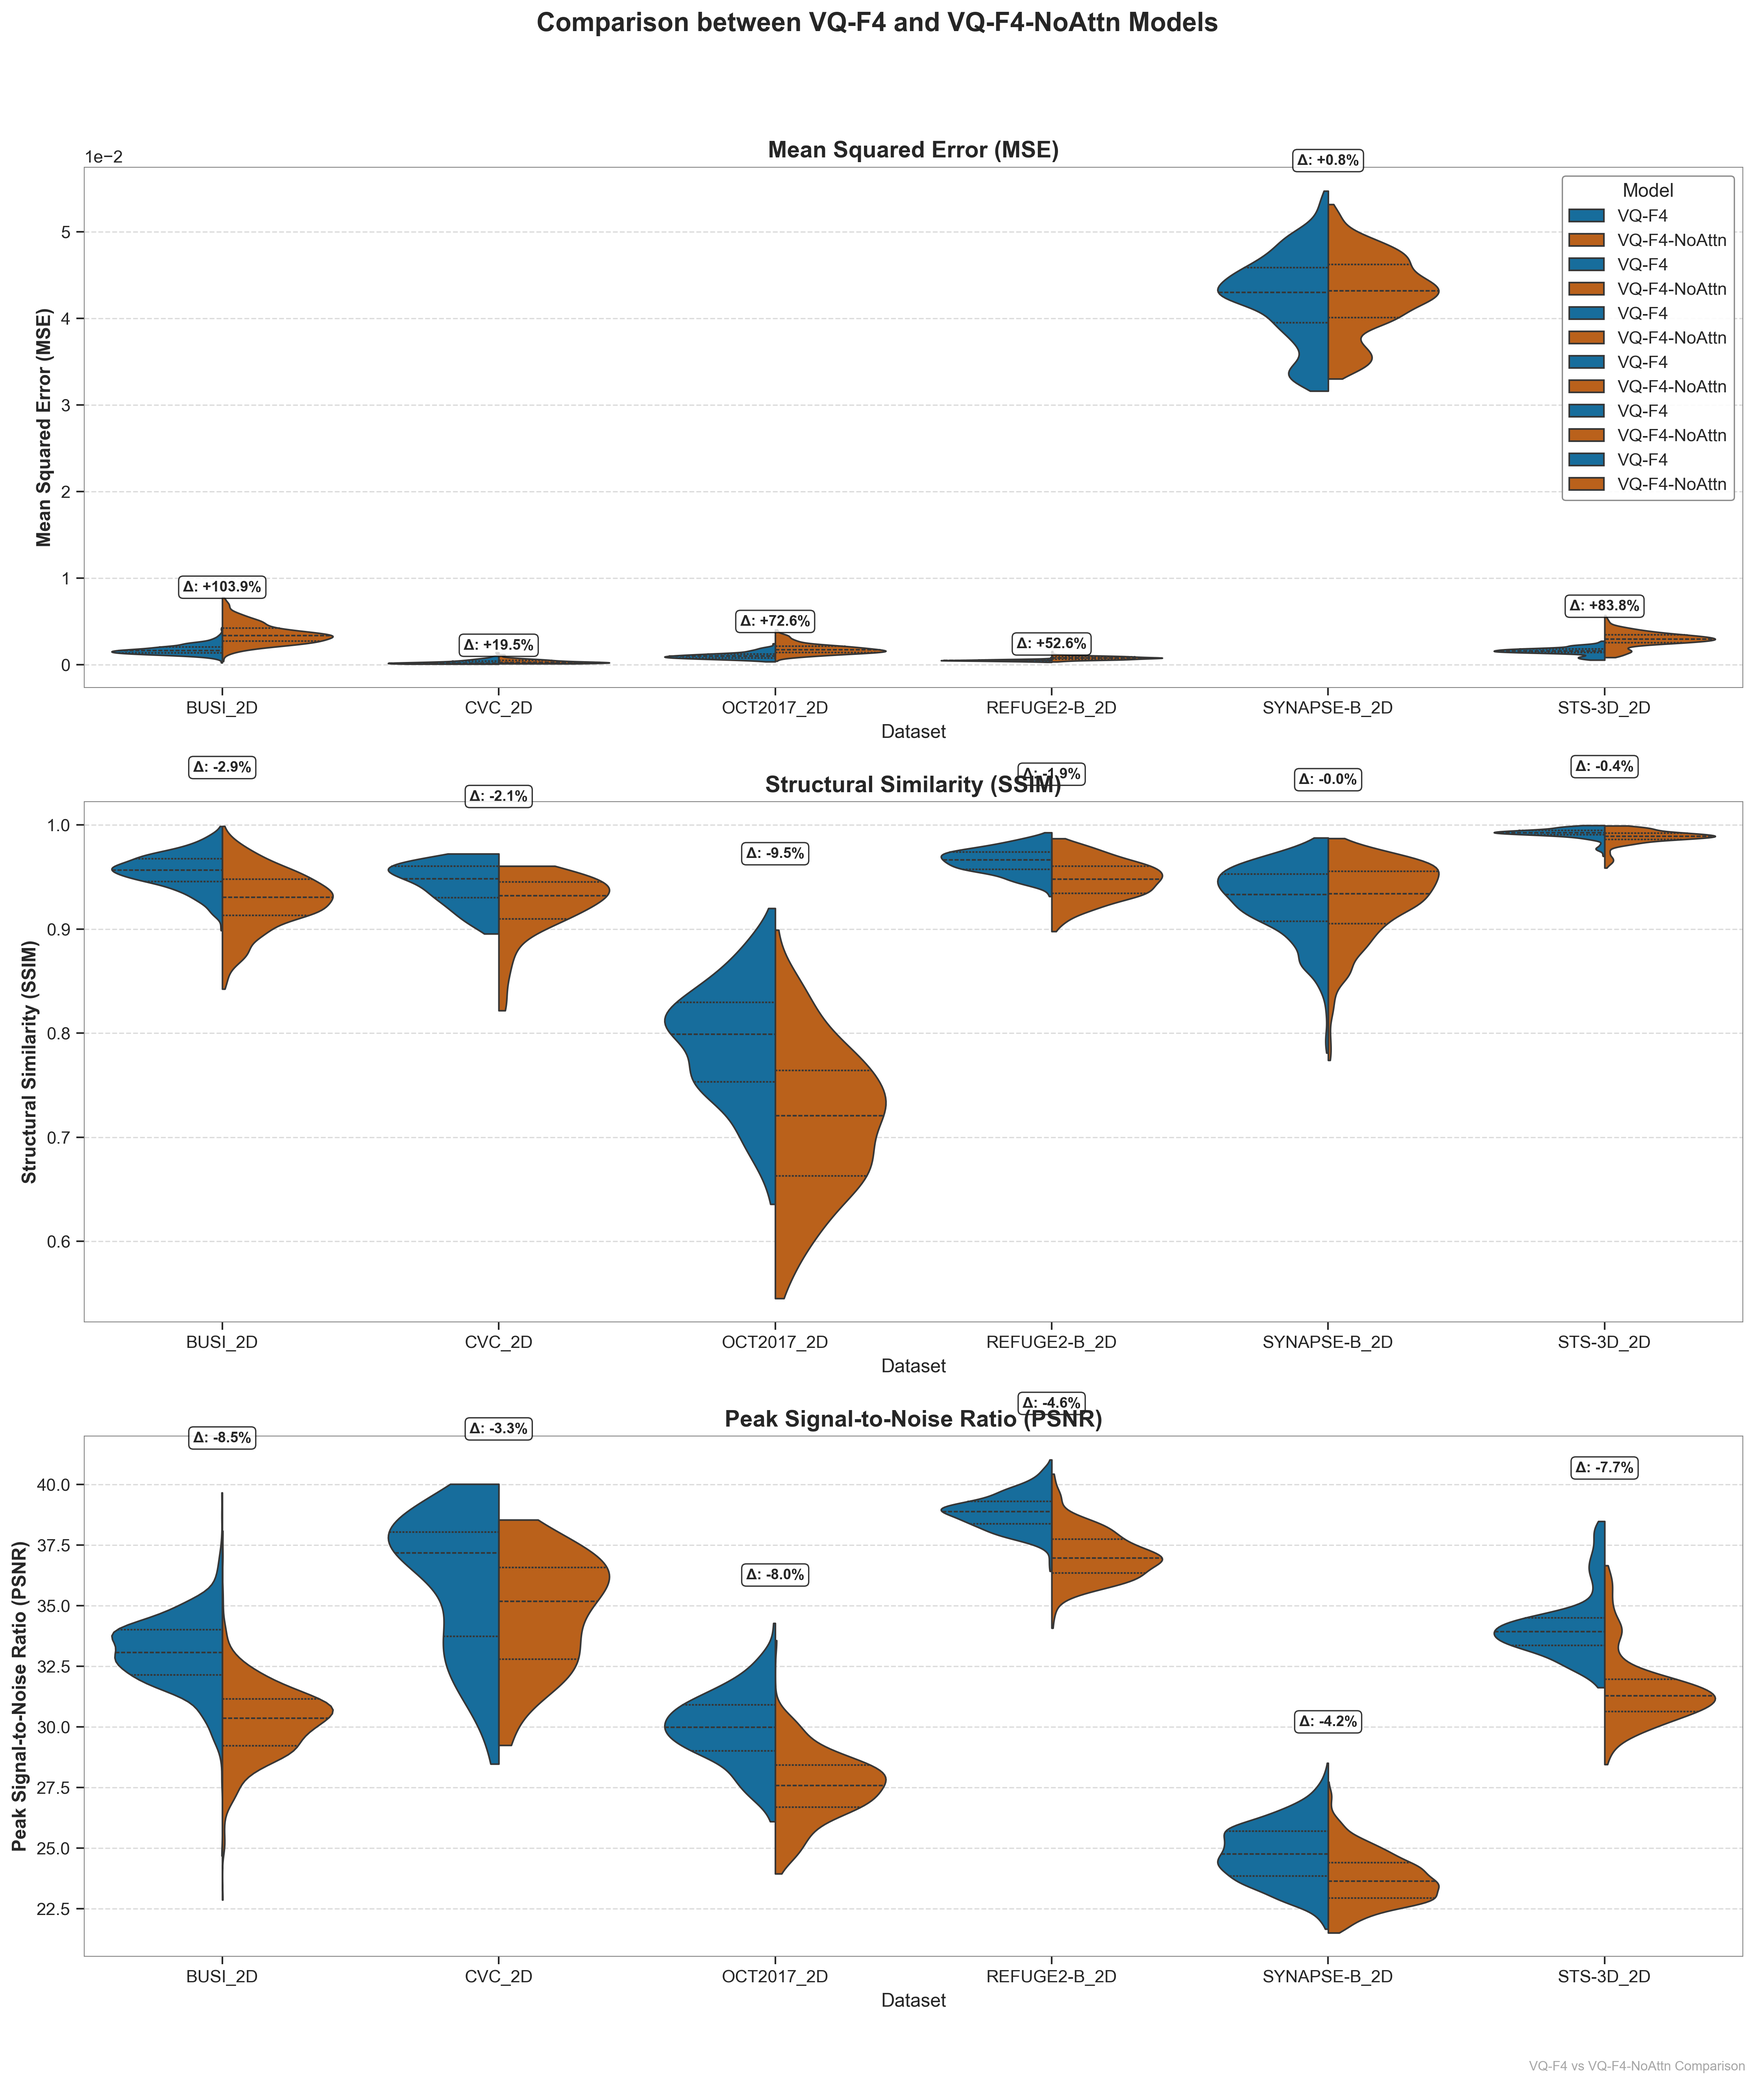
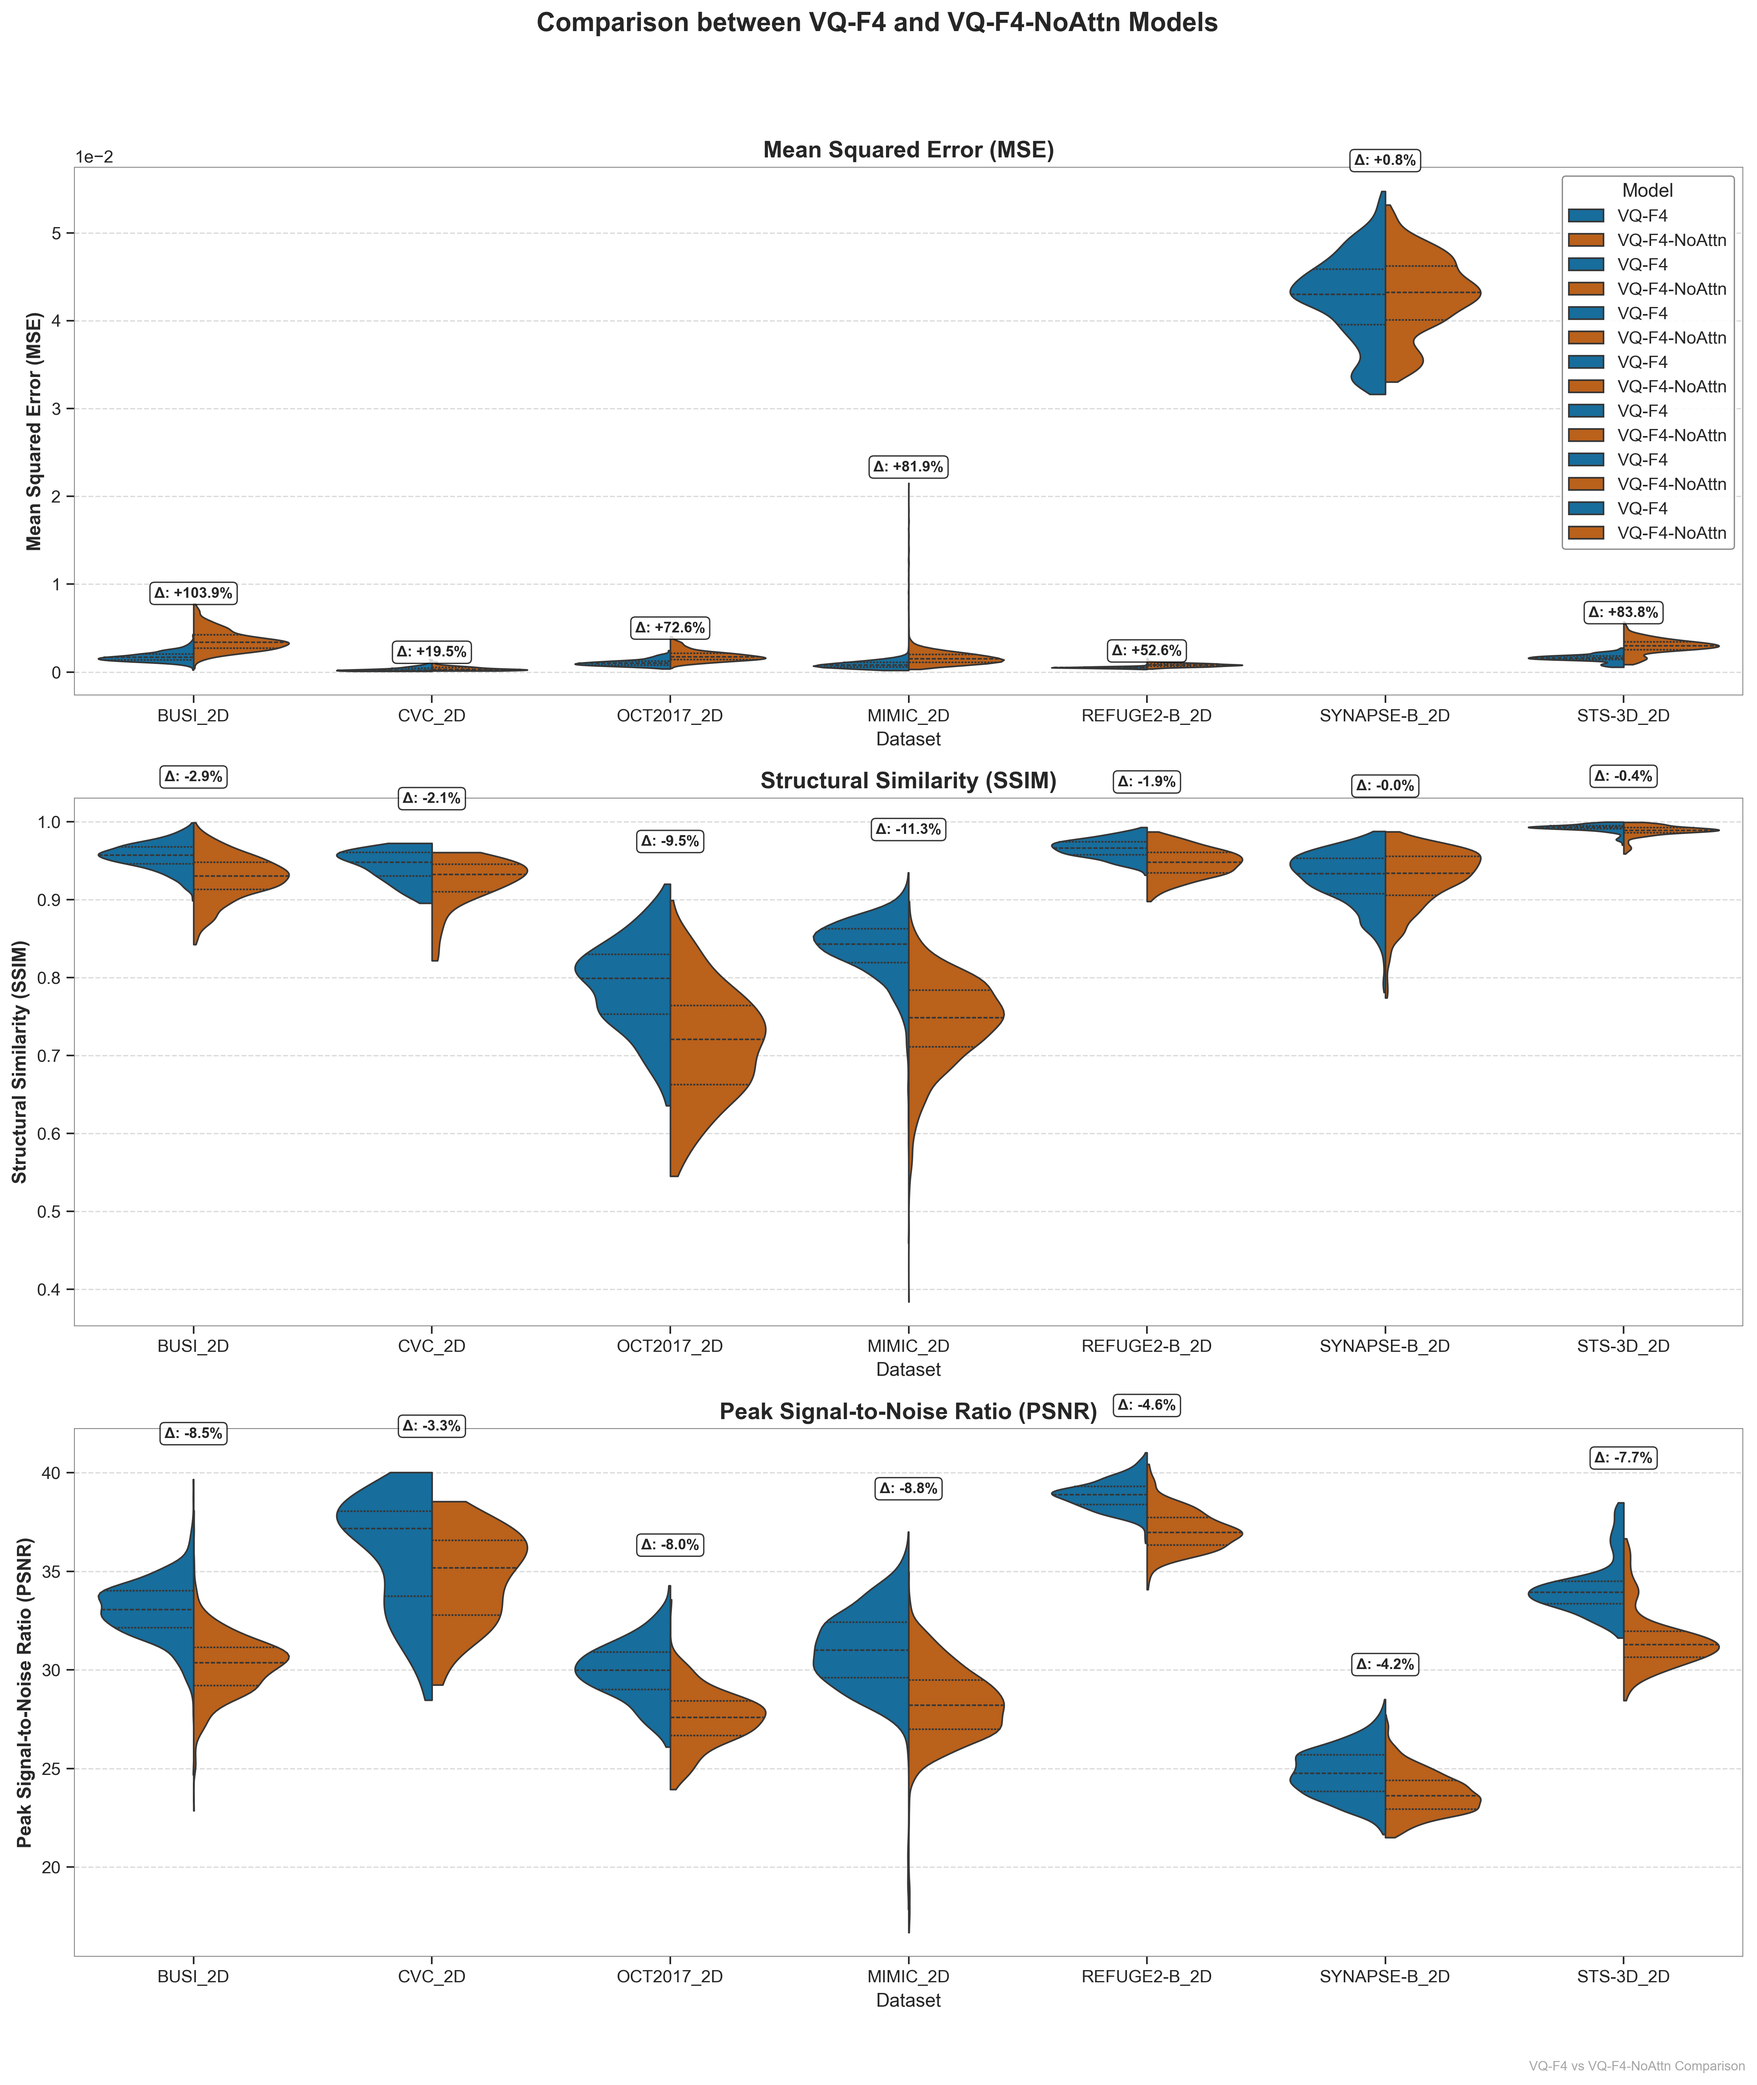
new with mimic

diff --git a/scripts/analyze_vqvae.py b/scripts/analyze_vqvae.py
@@ -14,7 +14,7 @@ sns.set_context("paper", font_scale=1.2)
 
 # Collect VQ models data - only include standard models, not the variants
 vq_models = ['pt-vq-f4', 'pt-vq-f8', 'pt-vq-f16']  # Removed pt-vq-f4-noattn and pt-vq-f8-n256
-datasets = ['BUSI_2D', 'CVC_2D', 'OCT2017_2D', 'REFUGE2-B_2D', 'SYNAPSE-B_2D', 'STS-3D_2D']
+datasets = ['BUSI_2D', 'CVC_2D', 'OCT2017_2D', 'MIMIC_2D', 'REFUGE2-B_2D', 'SYNAPSE-B_2D', 'STS-3D_2D']
 
 # Extract the downsampling factor numbers for sorting
 factors = [int(re.search(r'f(\d+)', model).group(1)) for model in vq_models]
@@ -70,9 +70,9 @@ metric_labels = ['Mean Squared Error (MSE)', 'Structural Similarity (SSIM)', 'Pe
 
 # Scientific publication color palette - colorblind friendly
 # Using a color palette inspired by Nature, Science, etc.
-colors = ['#0173B2', '#DE8F05', '#029E73', '#D55E00', '#CC78BC', '#661D98']
-markers = ['o', 's', '^', 'D', 'p', '*']
-linestyles = ['-', '--', ':', '-.', '-', '--']
+colors = ['#0173B2', '#DE8F05', '#029E73', '#D55E00', '#CC78BC', '#661D98', '#E76BF3']
+markers = ['o', 's', '^', 'D', 'p', '*', 'X']
+linestyles = ['-', '--', ':', '-.', '-', '--', ':']
 
 # For each metric, create a line plot
 for i, (metric, metric_label) in enumerate(zip(metrics, metric_labels)):

diff --git a/scripts/analyze_klvae.py b/scripts/analyze_klvae.py
@@ -18,7 +18,7 @@ factors = [int(model.split('-f')[1]) for model in kl_models]
 # Create a mapping of model to factor for later use
 model_to_factor = {model: factor for model, factor in zip(kl_models, factors)}
 
-datasets = ['BUSI_2D', 'CVC_2D', 'OCT2017_2D','REFUGE2-B_2D', 'SYNAPSE-B_2D', 'STS-3D_2D']
+datasets = ['BUSI_2D', 'CVC_2D', 'OCT2017_2D', 'MIMIC_2D', 'REFUGE2-B_2D', 'SYNAPSE-B_2D', 'STS-3D_2D']
 
 # Dictionary to store the results
 results_kl = {}
@@ -69,9 +69,9 @@ metric_labels = ['Mean Squared Error (MSE)', 'Structural Similarity (SSIM)', 'Pe
 
 # Scientific publication color palette - colorblind friendly
 # Using a color palette inspired by Nature, Science, etc.
-colors = ['#0173B2', '#DE8F05', '#029E73', '#D55E00', '#CC78BC', '#661D98']
-markers = ['o', 's', '^', 'D', 'p', '*']
-linestyles = ['-', '--', ':', '-.', '-', '--']
+colors = ['#0173B2', '#DE8F05', '#029E73', '#D55E00', '#CC78BC', '#661D98', '#E76BF3']
+markers = ['o', 's', '^', 'D', 'p', '*', 'X']
+linestyles = ['-', '--', ':', '-.', '-', '--', ':']
 
 # For each metric, create a line plot
 for i, (metric, metric_label) in enumerate(zip(metrics, metric_labels)):

diff --git a/scripts/compare_vq_f4_vs_noattn.py b/scripts/compare_vq_f4_vs_noattn.py
@@ -14,7 +14,7 @@ sns.set_context("paper", font_scale=1.2)
 # Models to compare
 model1 = 'pt-vq-f4'
 model2 = 'pt-vq-f4-noattn'
-datasets = ['BUSI_2D', 'CVC_2D', 'OCT2017_2D', 'REFUGE2-B_2D', 'SYNAPSE-B_2D', 'STS-3D_2D']
+datasets = ['BUSI_2D', 'CVC_2D', 'OCT2017_2D', 'MIMIC_2D', 'REFUGE2-B_2D', 'SYNAPSE-B_2D', 'STS-3D_2D']
 
 # Dictionary to store the results
 all_results = {model1: {}, model2: {}}

diff --git a/scripts/compare_vq_f8_vs_n256.py b/scripts/compare_vq_f8_vs_n256.py
@@ -14,7 +14,7 @@ sns.set_context("paper", font_scale=1.2)
 # Models to compare
 model1 = 'pt-vq-f8'
 model2 = 'pt-vq-f8-n256'
-datasets = ['BUSI_2D', 'CVC_2D', 'OCT2017_2D', 'REFUGE2-B_2D', 'SYNAPSE-B_2D', 'STS-3D_2D']
+datasets = ['BUSI_2D', 'CVC_2D', 'OCT2017_2D', 'MIMIC_2D', 'REFUGE2-B_2D', 'SYNAPSE-B_2D', 'STS-3D_2D']
 
 # Dictionary to store the results
 all_results = {model1: {}, model2: {}}
